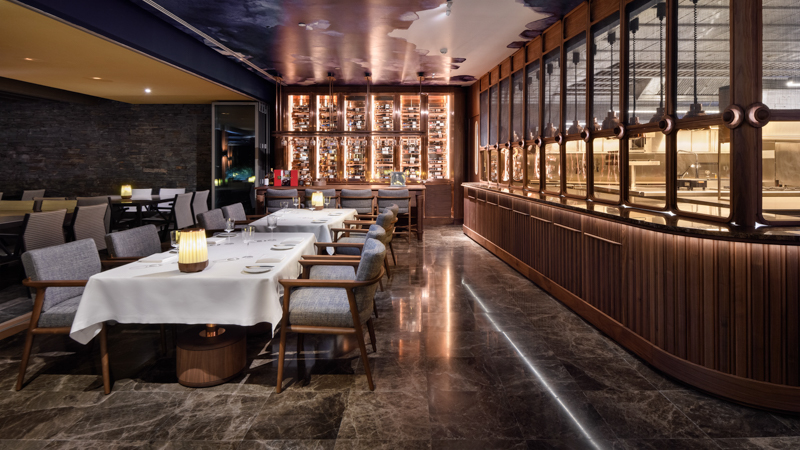
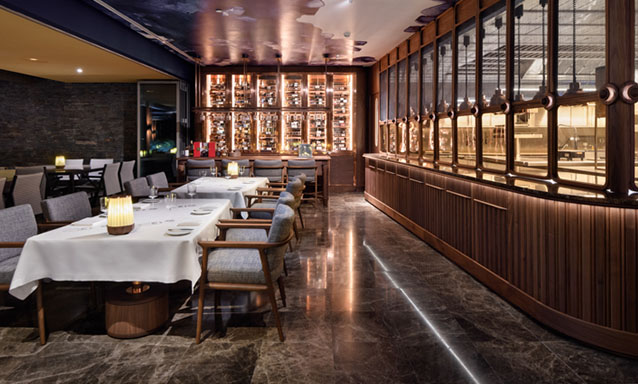
Updated the pics and some of the layout

diff --git a/src/components/Entradas.jsx b/src/components/Entradas.jsx
@@ -2,30 +2,36 @@ import React from 'react';
 import Card from './Card';
 import dish1 from '../images/salmon.jpg';
 import dish2 from '../images/pexels-photo-5409025.jpeg';
+import soup from '../images/soup.jpg';
+import fishSoup from '../images/fish-soup.jpg';
+import peasSoup from '../images/peas-soup.jpg';
+import vegMeal from '../images/veg-meal.jpg';
+import baconSoup from '../images/bacon-soup.jpg';
+import videoDish from '/videos/menu.mp4';
 
 function Entradas() {
     return(
         <section className="z-0">
-                <h2 className="uppercase text-slate-200 text-lg font-acumin ml-6 mt-4">Entradas</h2>
-                <Card img={dish1} title="Salmon Tartare"
-                    description="Fresh salmon tartare with mango, topped with fresh fennel salad,
-                crispy green onion and pistachio. GF | DF | FISH"/>
-                <Card img={dish2} title="Dish2"
-                    description="Lorem ipsum dolor sit amet, consectetur adipiscing elit. Aliquam metus turpis, tincidunt nec magna eget, ultrices ornare velit."
-                />
-                <Card img={dish2} title="Dish2"
-                    description="Lorem ipsum dolor sit amet, consectetur adipiscing elit. Aliquam metus turpis, tincidunt nec magna eget, ultrices ornare velit."
-                />
-                 <Card img={dish2} title="Dish2"
-                    description="Lorem ipsum dolor sit amet, consectetur adipiscing elit. Aliquam metus turpis, tincidunt nec magna eget, ultrices ornare velit."
-                />
-                 <Card img={dish2} title="Dish2"
-                    description="Lorem ipsum dolor sit amet, consectetur adipiscing elit. Aliquam metus turpis, tincidunt nec magna eget, ultrices ornare velit."
-                />
-                <Card img={dish1} title="Salmon Tartare"
-                    description="Fresh salmon tartare with mango, topped with fresh fennel salad,
-                crispy green onion and pistachio. GF | DF | FISH"/>
-            </section>
+            <h2 className="uppercase text-slate-200 text-lg font-acumin ml-6 mt-4">Entradas</h2>
+            <Card img1={soup} img2={fishSoup} img3={vegMeal} img4={peasSoup} img5={baconSoup} video={videoDish} videoPreview={dish1} title="Salmon Tartare"
+                description="Fresh salmon tartare with mango, topped with fresh fennel salad,
+            crispy green onion and pistachio. GF | DF | FISH"/>
+            <Card img1={peasSoup} img2={soup} img3={soup} img4={vegMeal} img5={baconSoup} video={null} videoPreview={dish2} title="Dish2"
+                description="Lorem ipsum dolor sit amet, consectetur adipiscing elit. Aliquam metus turpis, tincidunt nec magna eget, ultrices ornare velit."
+            />
+            <Card img1={baconSoup} img2={fishSoup} img3={vegMeal} img4={peasSoup} img5={soup} video={videoDish} videoPreview={dish1} title="Dish2"
+                description="Lorem ipsum dolor sit amet, consectetur adipiscing elit. Aliquam metus turpis, tincidunt nec magna eget, ultrices ornare velit."
+            />
+                <Card img1={vegMeal} img2={soup} img3={peasSoup} img4={fishSoup} img5={baconSoup} video={null} videoPreview={dish2} title="Dish2"
+                description="Lorem ipsum dolor sit amet, consectetur adipiscing elit. Aliquam metus turpis, tincidunt nec magna eget, ultrices ornare velit."
+            />
+                <Card img1={soup} img2={fishSoup} img3={vegMeal} img4={peasSoup} img5={baconSoup} video={videoDish} videoPreview={dish1} title="Dish2"
+                description="Lorem ipsum dolor sit amet, consectetur adipiscing elit. Aliquam metus turpis, tincidunt nec magna eget, ultrices ornare velit."
+            />
+            <Card img1={fishSoup} img2={soup} img3={peasSoup} img4={vegMeal} img5={baconSoup} video={null} videoPreview={dish2} title="Salmon Tartare"
+                description="Fresh salmon tartare with mango, topped with fresh fennel salad,
+            crispy green onion and pistachio. GF | DF | FISH"/>
+        </section>
     )
 }
 

diff --git a/src/components/Vinhos.jsx b/src/components/Vinhos.jsx
@@ -2,30 +2,36 @@ import React from 'react';
 import Card from './Card';
 import dish1 from '../images/salmon.jpg';
 import dish2 from '../images/pexels-photo-5409025.jpeg';
+import soup from '../images/soup.jpg';
+import fishSoup from '../images/fish-soup.jpg';
+import peasSoup from '../images/peas-soup.jpg';
+import vegMeal from '../images/veg-meal.jpg';
+import baconSoup from '../images/bacon-soup.jpg';
+import videoDish from '/videos/menu.mp4';
 
 function Vinhos() {
     return(
         <section className="z-0">
-                <h2 className="uppercase text-slate-200 text-lg font-acumin ml-6 mt-4">Vinhos</h2>
-                <Card img={dish1} title="Salmon Tartare"
-                    description="Fresh salmon tartare with mango, topped with fresh fennel salad,
-                crispy green onion and pistachio. GF | DF | FISH"/>
-                <Card img={dish2} title="Dish2"
-                    description="Lorem ipsum dolor sit amet, consectetur adipiscing elit. Aliquam metus turpis, tincidunt nec magna eget, ultrices ornare velit."
-                />
-                <Card img={dish2} title="Dish2"
-                    description="Lorem ipsum dolor sit amet, consectetur adipiscing elit. Aliquam metus turpis, tincidunt nec magna eget, ultrices ornare velit."
-                />
-                 <Card img={dish2} title="Dish2"
-                    description="Lorem ipsum dolor sit amet, consectetur adipiscing elit. Aliquam metus turpis, tincidunt nec magna eget, ultrices ornare velit."
-                />
-                 <Card img={dish2} title="Dish2"
-                    description="Lorem ipsum dolor sit amet, consectetur adipiscing elit. Aliquam metus turpis, tincidunt nec magna eget, ultrices ornare velit."
-                />
-                <Card img={dish1} title="Salmon Tartare"
-                    description="Fresh salmon tartare with mango, topped with fresh fennel salad,
-                crispy green onion and pistachio. GF | DF | FISH"/>
-            </section>
+            <h2 className="uppercase text-slate-200 text-lg font-acumin ml-6 mt-4">Vinhos</h2>
+            <Card img1={fishSoup} img2={soup} img3={peasSoup} img4={vegMeal} img5={baconSoup} video={null} videoPreview={dish2} title="Salmon Tartare"
+                description="Fresh salmon tartare with mango, topped with fresh fennel salad,
+            crispy green onion and pistachio. GF | DF | FISH"/>
+            <Card img1={vegMeal} img2={fishSoup} img3={soup} img4={peasSoup} img5={baconSoup} video={videoDish} videoPreview={dish1} title="Dish2"
+                description="Lorem ipsum dolor sit amet, consectetur adipiscing elit. Aliquam metus turpis, tincidunt nec magna eget, ultrices ornare velit."
+            />
+            <Card img1={baconSoup} img2={soup} img3={peasSoup} img4={vegMeal} img5={fishSoup} video={null} videoPreview={dish2} title="Dish2"
+                description="Lorem ipsum dolor sit amet, consectetur adipiscing elit. Aliquam metus turpis, tincidunt nec magna eget, ultrices ornare velit."
+            />
+                <Card img1={soup} img2={fishSoup} img3={vegMeal} img4={peasSoup} img5={baconSoup} video={videoDish} videoPreview={dish1} title="Dish2"
+                description="Lorem ipsum dolor sit amet, consectetur adipiscing elit. Aliquam metus turpis, tincidunt nec magna eget, ultrices ornare velit."
+            />
+                <Card img1={peasSoup} img2={soup} img3={fishSoup} img4={vegMeal} img5={baconSoup} video={null} videoPreview={dish2} title="Dish2"
+                description="Lorem ipsum dolor sit amet, consectetur adipiscing elit. Aliquam metus turpis, tincidunt nec magna eget, ultrices ornare velit."
+            />
+            <Card img1={soup} img2={fishSoup} img3={vegMeal} img4={peasSoup} img5={baconSoup} video={videoDish} videoPreview={dish1} title="Salmon Tartare"
+                description="Fresh salmon tartare with mango, topped with fresh fennel salad,
+            crispy green onion and pistachio. GF | DF | FISH"/>
+        </section>
     )
 }
 

diff --git a/src/components/Kids.jsx b/src/components/Kids.jsx
@@ -2,30 +2,36 @@ import React from 'react';
 import Card from './Card';
 import dish1 from '../images/salmon.jpg';
 import dish2 from '../images/pexels-photo-5409025.jpeg';
+import soup from '../images/soup.jpg';
+import fishSoup from '../images/fish-soup.jpg';
+import peasSoup from '../images/peas-soup.jpg';
+import vegMeal from '../images/veg-meal.jpg';
+import baconSoup from '../images/bacon-soup.jpg';
+import videoDish from '/videos/menu.mp4';
 
 function Kids() {
     return(
         <section className="z-0">
-                <h2 className="uppercase text-slate-200 text-lg font-acumin ml-6 mt-4">Kids</h2>
-                <Card img={dish1} title="Salmon Tartare"
-                    description="Fresh salmon tartare with mango, topped with fresh fennel salad,
-                crispy green onion and pistachio. GF | DF | FISH"/>
-                <Card img={dish2} title="Dish2"
-                    description="Lorem ipsum dolor sit amet, consectetur adipiscing elit. Aliquam metus turpis, tincidunt nec magna eget, ultrices ornare velit."
-                />
-                <Card img={dish2} title="Dish2"
-                    description="Lorem ipsum dolor sit amet, consectetur adipiscing elit. Aliquam metus turpis, tincidunt nec magna eget, ultrices ornare velit."
-                />
-                 <Card img={dish2} title="Dish2"
-                    description="Lorem ipsum dolor sit amet, consectetur adipiscing elit. Aliquam metus turpis, tincidunt nec magna eget, ultrices ornare velit."
-                />
-                 <Card img={dish2} title="Dish2"
-                    description="Lorem ipsum dolor sit amet, consectetur adipiscing elit. Aliquam metus turpis, tincidunt nec magna eget, ultrices ornare velit."
-                />
-                <Card img={dish1} title="Salmon Tartare"
-                    description="Fresh salmon tartare with mango, topped with fresh fennel salad,
-                crispy green onion and pistachio. GF | DF | FISH"/>
-            </section>
+            <h2 className="uppercase text-slate-200 text-lg font-acumin ml-6 mt-4">Kids</h2>
+            <Card img1={fishSoup} img2={soup} img3={peasSoup} img4={vegMeal} img5={baconSoup} video={null} videoPreview={dish2} title="Salmon Tartare"
+                description="Fresh salmon tartare with mango, topped with fresh fennel salad,
+            crispy green onion and pistachio. GF | DF | FISH"/>
+            <Card img1={soup} img2={fishSoup} img3={vegMeal} img4={peasSoup} img5={baconSoup} video={videoDish} videoPreview={dish1} title="Dish2"
+                description="Lorem ipsum dolor sit amet, consectetur adipiscing elit. Aliquam metus turpis, tincidunt nec magna eget, ultrices ornare velit."
+            />
+            <Card img1={fishSoup} img2={soup} img3={peasSoup} img4={vegMeal} img5={baconSoup} video={null} videoPreview={dish2} title="Dish2"
+                description="Lorem ipsum dolor sit amet, consectetur adipiscing elit. Aliquam metus turpis, tincidunt nec magna eget, ultrices ornare velit."
+            />
+                <Card img1={soup} img2={fishSoup} img3={vegMeal} img4={peasSoup} img5={baconSoup} video={videoDish} videoPreview={dish1} title="Dish2"
+                description="Lorem ipsum dolor sit amet, consectetur adipiscing elit. Aliquam metus turpis, tincidunt nec magna eget, ultrices ornare velit."
+            />
+                <Card img1={fishSoup} img2={soup} img3={peasSoup} img4={vegMeal} img5={baconSoup} video={null} videoPreview={dish2} title="Dish2"
+                description="Lorem ipsum dolor sit amet, consectetur adipiscing elit. Aliquam metus turpis, tincidunt nec magna eget, ultrices ornare velit."
+            />
+            <Card img1={soup} img2={fishSoup} img3={vegMeal} img4={peasSoup} img5={baconSoup} video={videoDish} videoPreview={dish1} title="Salmon Tartare"
+                description="Fresh salmon tartare with mango, topped with fresh fennel salad,
+            crispy green onion and pistachio. GF | DF | FISH"/>
+        </section>
     )
 }
 

diff --git a/src/components/Card.jsx b/src/components/Card.jsx
@@ -1,8 +1,17 @@
 import React from 'react';
 import playButton from '../images/Play2.png';
 import myVideo from '/videos/menu.mp4';
+// Import Swiper React components
+import { Swiper, SwiperSlide } from 'swiper/react';
+// import { Navigation, EffectFade } from 'swiper';
+import { Pagination} from "swiper";
+// Import Swiper styles
+import 'swiper/css';
+// import 'swiper/css/navigation';
+import 'swiper/css/pagination';
+import 'swiper/css/effect-fade';
 
-function Card({title, img, description}) {
+function Card(props) {
 
     // let isClicked = false;
     //const dish = document.getElementById('dish');\
@@ -82,17 +91,48 @@ function Card({title, img, description}) {
                 <img src={props.img} alt="salmon" />
                 <img className="absolute top-3 right-3 w-8" src={playButton} alt="playbutton" />
             </div> */}
-            <div className="w-full h-229px" id="clickDish" onClick={controlVideo}>
-                <img ref={playIcon} className="absolute top-3 right-3 w-8 transition-all duration-500" src={playButton} alt="playbutton" />
-                <video onEnded={videoEnded} onPlay={videoStart} className="object-cover" ref={video} id="dish" width="100%" height="100%" muted poster={img}>
-                <source src={myVideo} type="video/mp4"></source>
-                </video>
-            </div>
+
+            <Swiper
+                className="w-full h-229px z-0"
+                // modules={[Navigation, EffectFade]}
+                pagination={true}
+                // navigation={true}
+                modules={[Pagination]}
+                effect
+                speed={800}
+                slidesPerView={1}
+                loop 
+            >
+                <SwiperSlide >
+                    <img className="w-full h-full object-cover" src={props.img1} alt="" />
+                </SwiperSlide>
+                <SwiperSlide >
+                    <img className="w-full h-full object-cover" src={props.img2} alt="" />
+                </SwiperSlide>
+                <SwiperSlide >
+                    <img className="w-full h-full object-cover" src={props.img3} alt="" />
+                </SwiperSlide>
+                <SwiperSlide >
+                    <img className="w-full h-full object-cover" src={props.img4} alt="" />
+                </SwiperSlide>
+                <SwiperSlide >
+                    <img className="w-full h-full object-cover" src={props.img5} alt="" />
+                </SwiperSlide>
+                {props.video ? <SwiperSlide >
+                    <div className="w-full h-229px" id="clickDish" onClick={controlVideo}>
+                        <img ref={playIcon} className="absolute top-3 right-3 w-8 transition-all duration-500" src={playButton} alt="playbutton" />
+                        <video onEnded={videoEnded} onPlay={videoStart} className="object-cover" ref={video} id="dish" width="100%" height="100%" poster={props.videoPreview}>
+                        <source src={props.video} type="video/mp4"></source>
+                        </video> 
+                    </div> 
+                </SwiperSlide> : null} 
+                
+            </Swiper>
             <div className='flex justify-between items-center px-2' id="dishName">
-            <h3 className="text-lg font-bold py-3">{title}</h3>
+            <h3 className="text-lg font-bold py-3">{props.title}</h3>
             <span className='text-sm font-thin italic pr-2' id="dishPrice">18,90 &euro;</span>
             </div>
-            <p className="text-xs pb-12">{description}</p>
+            <p className="text-xs pb-12">{props.description}</p>
         </div>
     )
 }

diff --git a/src/components/Saladas.jsx b/src/components/Saladas.jsx
@@ -2,27 +2,33 @@ import React from 'react';
 import Card from './Card';
 import dish1 from '../images/salmon.jpg';
 import dish2 from '../images/pexels-photo-5409025.jpeg';
+import soup from '../images/soup.jpg';
+import fishSoup from '../images/fish-soup.jpg';
+import peasSoup from '../images/peas-soup.jpg';
+import vegMeal from '../images/veg-meal.jpg';
+import baconSoup from '../images/bacon-soup.jpg';
+import videoDish from '/videos/menu.mp4';
 
 function Saladas() {
     return(
         <section className="z-0">
                 <h2 className="uppercase text-slate-200 text-lg font-acumin ml-6 mt-4">Saladas</h2>
-                <Card img={dish1} title="Salmon Tartare"
+                <Card img1={fishSoup} img2={soup} img3={peasSoup} img4={vegMeal} img5={baconSoup} video={null} videoPreview={dish2} title="Salmon Tartare"
                     description="Fresh salmon tartare with mango, topped with fresh fennel salad,
                 crispy green onion and pistachio. GF | DF | FISH"/>
-                <Card img={dish2} title="Dish2"
+                <Card img1={soup} img2={fishSoup} img3={vegMeal} img4={peasSoup} img5={baconSoup} video={videoDish} videoPreview={dish1} title="Dish2"
                     description="Lorem ipsum dolor sit amet, consectetur adipiscing elit. Aliquam metus turpis, tincidunt nec magna eget, ultrices ornare velit."
                 />
-                <Card img={dish2} title="Dish2"
+                <Card img1={fishSoup} img2={soup} img3={peasSoup} img4={vegMeal} img5={baconSoup} video={null} videoPreview={dish2} title="Dish2"
                     description="Lorem ipsum dolor sit amet, consectetur adipiscing elit. Aliquam metus turpis, tincidunt nec magna eget, ultrices ornare velit."
                 />
-                 <Card img={dish2} title="Dish2"
+                 <Card img1={peasSoup} img2={fishSoup} img3={vegMeal} img4={soup} img5={baconSoup} video={videoDish} videoPreview={dish1} title="Dish2"
                     description="Lorem ipsum dolor sit amet, consectetur adipiscing elit. Aliquam metus turpis, tincidunt nec magna eget, ultrices ornare velit."
                 />
-                 <Card img={dish2} title="Dish2"
+                 <Card img1={fishSoup} img2={soup} img3={peasSoup} img4={vegMeal} img5={baconSoup} video={null} videoPreview={dish2} title="Dish2"
                     description="Lorem ipsum dolor sit amet, consectetur adipiscing elit. Aliquam metus turpis, tincidunt nec magna eget, ultrices ornare velit."
                 />
-                <Card img={dish1} title="Salmon Tartare"
+                <Card img1={baconSoup} img2={fishSoup} img3={vegMeal} img4={peasSoup} img5={soup} video={videoDish} videoPreview={dish1} title="Salmon Tartare"
                     description="Fresh salmon tartare with mango, topped with fresh fennel salad,
                 crispy green onion and pistachio. GF | DF | FISH"/>
             </section>

diff --git a/src/components/Peixe.jsx b/src/components/Peixe.jsx
@@ -2,18 +2,24 @@ import React from 'react';
 import Card from './Card';
 import dish1 from '../images/salmon.jpg';
 import dish2 from '../images/pexels-photo-5409025.jpeg';
+import soup from '../images/soup.jpg';
+import fishSoup from '../images/fish-soup.jpg';
+import peasSoup from '../images/peas-soup.jpg';
+import vegMeal from '../images/veg-meal.jpg';
+import baconSoup from '../images/bacon-soup.jpg';
+import videoDish from '/videos/menu.mp4';
 
 function Peixe() {
     return(
         <section className="z-0">
-                <h2 className="uppercase text-slate-200 text-lg font-acumin ml-6 mt-4">Peixe</h2>
-                <Card img={dish2} title="Salmon Tartare"
-                    description="Fresh salmon tartare with mango, topped with fresh fennel salad,
-                crispy green onion and pistachio. GF | DF | FISH"/>
-                <Card img={dish1} title="Dish2"
-                    description="Lorem ipsum dolor sit amet, consectetur adipiscing elit. Aliquam metus turpis, tincidunt nec magna eget, ultrices ornare velit."
-                />
-            </section>
+            <h2 className="uppercase text-slate-200 text-lg font-acumin ml-6 mt-4">Peixe</h2>
+            <Card img1={soup} img2={fishSoup} img3={vegMeal} img4={peasSoup} img5={baconSoup} video={videoDish} videoPreview={dish1} title="Salmon Tartare"
+                description="Fresh salmon tartare with mango, topped with fresh fennel salad,
+            crispy green onion and pistachio. GF | DF | FISH"/>
+            <Card img1={fishSoup} img2={soup} img3={peasSoup} img4={vegMeal} img5={baconSoup} video={null} videoPreview={dish2} title="Dish2"
+                description="Lorem ipsum dolor sit amet, consectetur adipiscing elit. Aliquam metus turpis, tincidunt nec magna eget, ultrices ornare velit."
+            />
+        </section>
     )
 }
 

diff --git a/src/components/Carne.jsx b/src/components/Carne.jsx
@@ -2,18 +2,24 @@ import React from 'react';
 import Card from './Card';
 import dish1 from '../images/salmon.jpg';
 import dish2 from '../images/pexels-photo-5409025.jpeg';
+import soup from '../images/soup.jpg';
+import fishSoup from '../images/fish-soup.jpg';
+import peasSoup from '../images/peas-soup.jpg';
+import vegMeal from '../images/veg-meal.jpg';
+import baconSoup from '../images/bacon-soup.jpg';
+import videoDish from '/videos/menu.mp4';
 
 function Carne() {
     return(
         <section className="z-0">
                 <h2 className="uppercase text-slate-200 text-lg font-acumin ml-6 mt-4">Carne</h2>
-                <Card img={dish1} title="Salmon Tartare"
+                <Card img1={soup} img2={fishSoup} img3={vegMeal} img4={peasSoup} img5={baconSoup} video={videoDish} videoPreview={dish1} title="Salmon Tartare"
                     description="Fresh salmon tartare with mango, topped with fresh fennel salad,
                 crispy green onion and pistachio. GF | DF | FISH"/>
-                <Card img={dish2} title="Dish2"
+                <Card img1={fishSoup} img2={soup} img3={peasSoup} img4={vegMeal} img5={baconSoup} video={null} videoPreview={dish2} title="Dish2"
                     description="Lorem ipsum dolor sit amet, consectetur adipiscing elit. Aliquam metus turpis, tincidunt nec magna eget, ultrices ornare velit."
                 />
-                <Card img={dish1} title="Dish2"
+                <Card img1={soup} img2={fishSoup} img3={vegMeal} img4={peasSoup} img5={baconSoup} video={videoDish} videoPreview={dish1} title="Dish2"
                     description="Lorem ipsum dolor sit amet, consectetur adipiscing elit. Aliquam metus turpis, tincidunt nec magna eget, ultrices ornare velit."
                 />
             </section>

diff --git a/src/css/menu.css b/src/css/menu.css
@@ -15,4 +15,18 @@ video {
     height: inherit !important;
 }
 
+/* .swiper-button-next,
+.swiper-button-prev {
+    color: #c4bcb5 !important;
+} */
+
+/* .swiper-pagination-bullet {
+    background: white !important;
+} */
+
+.swiper-pagination-bullet-active {
+    background: white !important;
+}
+
+
 @tailwind utilities;

diff --git a/src/App.jsx b/src/App.jsx
@@ -8,6 +8,7 @@ import restaurant from './images/main.jpg';
 import scrollIcon from './images/Top.png';
 import Section from './components/Section';
 
+
 // css
 var scrollStyle = {
     "scrollbarWidth": "none"
